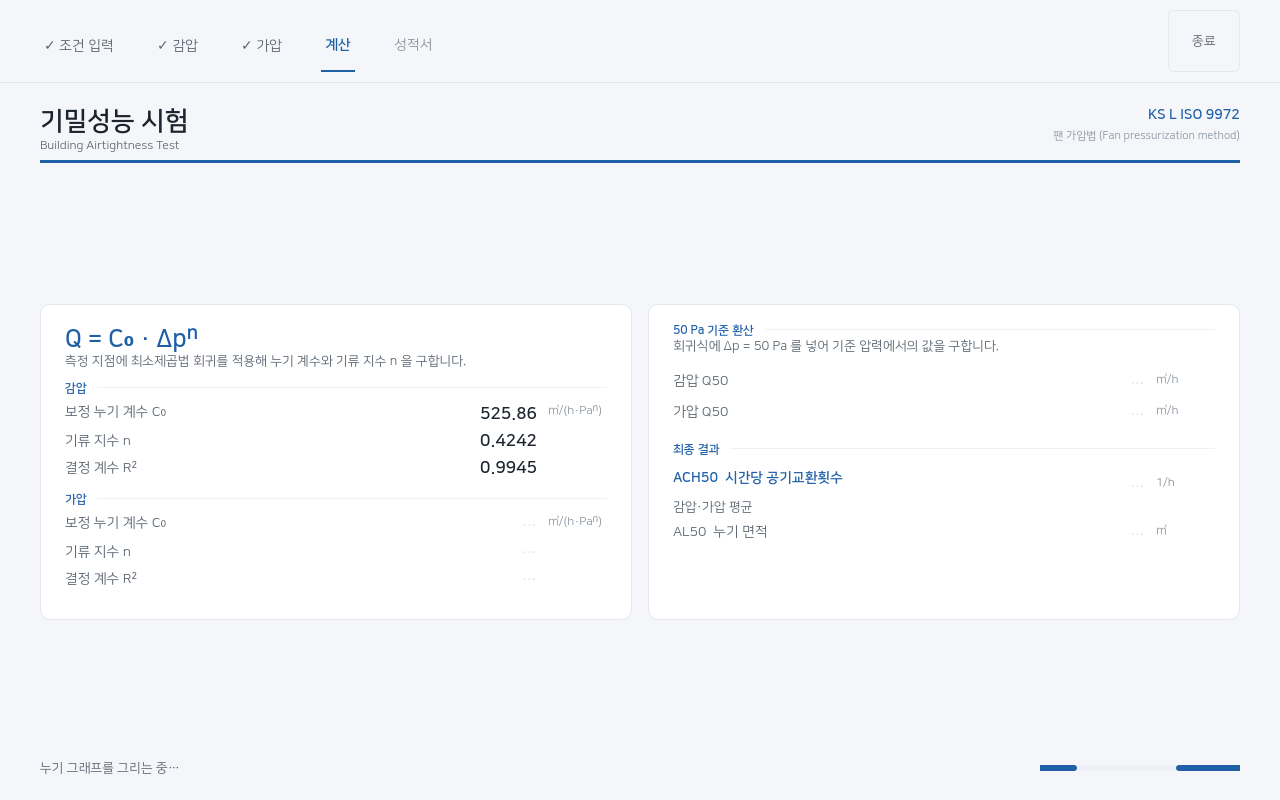
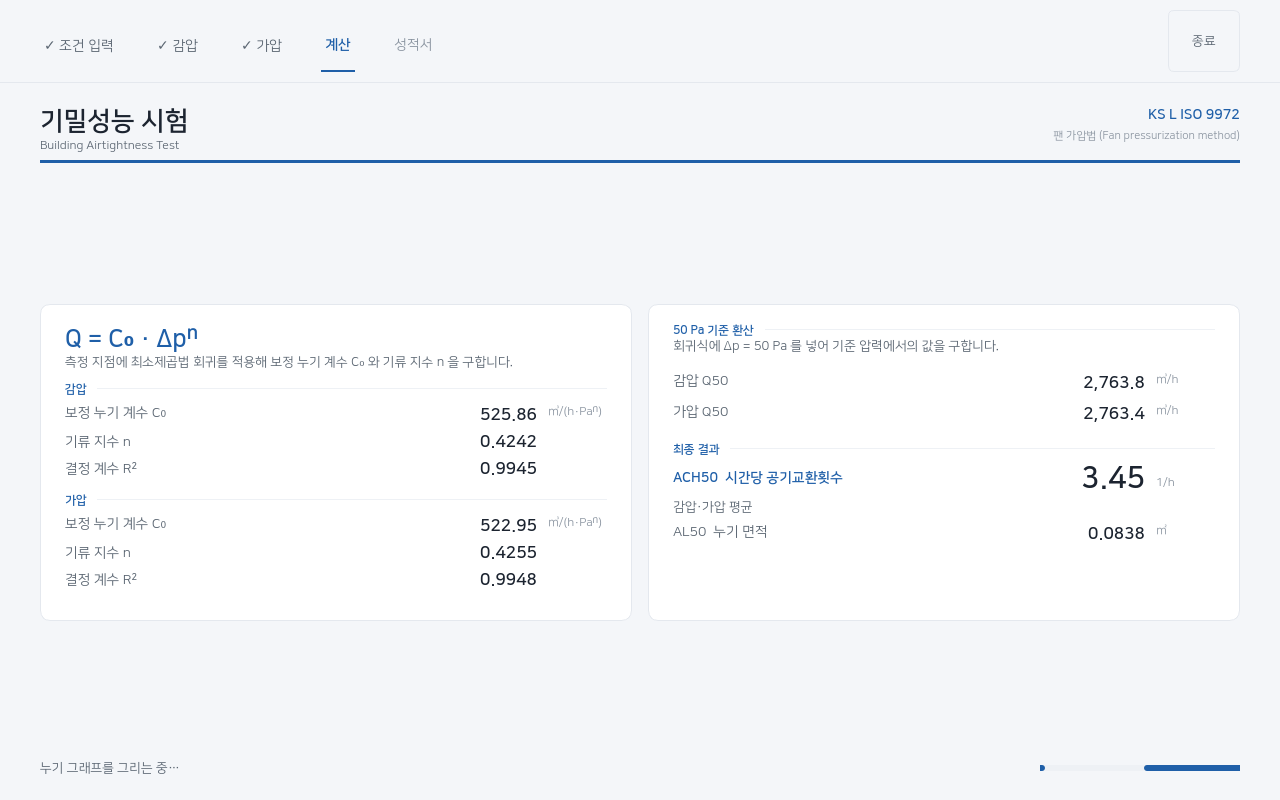
최종 점검 묶음 — 폴링 최적화·스모크 확장·문서 동기화·AP 기본값
성적서 화면 폴링 최적화: _refresh_qr 이 2초마다 nmcli 를 3~4회(GUI 스레드)
돌려 NM 이 느린 순간 화면이 버벅일 수 있었다. 정상 상태에선 AP 유무 확인
(ap_ip) 1회만 부르고, 자격증명은 QR 을 새로 그릴 때만, SSID 조회는 주소가
바뀔 때만 읽는다 (wifi_qr_payload 에 cred 재사용 인자 추가).

스모크 확장(26→31검사): 한글 오토마타 조합 8케이스·겹받침 백스페이스,
팬 수량 체크박스 개수, numeric property 판별, 팬 감시 정확 매칭
(fan_guard 에 is_app_cmdline 헬퍼 분리 — 동작 불변).

문서 동기화: CLAUDE.md 에 온스크린 키보드 기재, 안전장치 3층을 autostart
루프 기준으로 정정, 웹공유 절의 wlan1 서술이 개발 구성임을 명시(납품 절과의
모순 해소). MANUAL.md 'USB 로 복사'·'표본 수'·감지 알림 반영.
04-summary.png 재생성(intro 문구 최신화).

setup-hotspot.sh 기본 SSID·비번을 실기기·문서와 일치(BlowerDoor-Test/
blowerdoor123)로 — 납품 때 인자 없이 재실행해도 안내와 어긋나지 않게.

Claude-Session: https://claude.ai/code/session_01MsHdfJVN6r14YMWuHNiSUb

diff --git a/bdt/pages/report_view.py b/bdt/pages/report_view.py
@@ -257,49 +257,62 @@ class ReportPage(QWidget):
         sub_label.setText(sub_text)
 
     def _refresh_qr(self):
-        """AP·네트워크 상태에 맞춰 공유 QR 을 갱신한다."""
+        """AP·네트워크 상태에 맞춰 공유 QR 을 갱신한다.
+
+        2초마다 GUI 스레드에서 돌므로 nmcli 서브프로세스를 아껴야 한다 —
+        NetworkManager 가 느린 순간엔 호출당 수 초씩 막혀 화면이 버벅인다.
+        정상 상태(변화 없음)에선 AP 유무 확인(ap_ip) 한 번만 부르고,
+        자격증명·SSID 조회는 QR 을 실제로 새로 그릴 때만 한다.
+        """
         from bdt import web
-        url = web.base_url()
-        if not url:                       # 네트워크·AP 둘 다 없음
+        # AP(bdt-share)가 '실제로 떠 있는지'는 IP 유무로 본다. 연결 설정만 있고
+        # 안 떠 있으면 접속 QR 을 보여줘선 안 된다 — 없는 망에 붙으라고
+        # 안내하는 꼴이 된다.
+        ap = web.ap_ip()                    # 폴링당 유일한 상시 nmcli 호출
+        ip = ap or web.lan_ip()             # lan_ip 은 소켓 조회라 싸다
+        if not ip:                          # 네트워크·AP 둘 다 없음
             self.qr_panel.setVisible(False)
             self._wifi_shown = self._url_shown = None
             return
+        ap_up = ap is not None
+        url = f"http://{ip}:{web.PORT}/"
 
-        # AP(bdt-share)가 '실제로 떠 있는지'는 IP 유무로 본다. 연결 설정만 있고
-        # 안 떠 있으면(ap_ip None) 접속 QR 을 보여줘선 안 된다 — 없는 망에
-        # 붙으라고 안내하는 꼴이 된다.
-        ap_up = web.ap_ip() is not None
-
-        # ① WiFi 접속 QR — AP 가 실제로 떠 있을 때만
-        wifi = web.wifi_qr_payload() if ap_up else None
-        cred = web.ap_credentials() if wifi else None
-        if wifi and cred:
-            self._wifi_block.setVisible(True)
-            if wifi != self._wifi_shown:
-                # 스캔하면 WiFi 자동 연결(비번 QR 에 박힘) → 목록 자동 열림.
-                # 아래 SSID·비번은 QR 이 안 될 때 손으로 연결하는 예비 정보.
-                self._set_qr(self.wifi_qr, self.wifi_sub, wifi,
-                             f"WiFi 연결 후 목록 자동 열림\n"
-                             f"(수동: {cred[0]} / {cred[1]})")
-                self._wifi_shown = wifi
+        # ① WiFi 접속 QR — AP 가 실제로 떠 있을 때만. 자격증명(nmcli)은 QR 이
+        # 아직 안 그려졌을 때만 읽는다 (SSID·비번은 세션 중 바뀌지 않는다 —
+        # 바꾸는 경로는 setup-hotspot.sh 뿐이고 그때 AP 가 재시작돼 여기로
+        # 다시 온다).
+        if ap_up:
+            if self._wifi_shown is None:
+                cred = web.ap_credentials()
+                wifi = web.wifi_qr_payload(cred)
+                if wifi and cred:
+                    # 스캔하면 WiFi 자동 연결(비번 QR 에 박힘) → 목록 자동 열림.
+                    # 아래 SSID·비번은 QR 이 안 될 때 손으로 연결하는 예비 정보.
+                    self._set_qr(self.wifi_qr, self.wifi_sub, wifi,
+                                 f"WiFi 연결 후 목록 자동 열림\n"
+                                 f"(수동: {cred[0]} / {cred[1]})")
+                    self._wifi_shown = wifi
+            self._wifi_block.setVisible(self._wifi_shown is not None)
         else:
             self._wifi_block.setVisible(False)
             self._wifi_shown = None
 
-        # ② 다운로드 주소 QR — 캡션은 상황에 따라 다르다.
-        #   AP 있음: 폰이 AP 에 붙은 뒤 ① 자동 열림이 안 될 때의 폴백.
-        #   AP 없음: 폰이 '이미 같은 WiFi 에 있어야' 열린다 — 그렇지 않으면
-        #            스캔해도 접속이 안 되므로 전제 조건을 분명히 알린다.
-        if ap_up:
-            self.url_cap.setText("② 1번으로 목록이 안 열릴 때만")
-        else:
-            # 폰이 어느 망에 붙어야 하는지 실제 SSID 로 알린다
-            ssid = web.lan_ssid()
-            if ssid:
-                self.url_cap.setText(f"'{ssid}' WiFi 의 폰에서만")
-            else:
-                self.url_cap.setText("같은 WiFi 에 연결된 폰에서만")
+        # ② 다운로드 주소 QR — 주소가 바뀔 때만(첫 표시·망 전환) 다시 그린다.
+        # 캡션도 이때만 정한다: ap_up 이 바뀌면 IP(10.42.0.1 ↔ LAN)가 바뀌어
+        # 반드시 여기로 들어오므로 폴링마다 SSID(nmcli)를 조회할 필요가 없다.
         if url != self._url_shown:
+            #   AP 있음: 폰이 AP 에 붙은 뒤 ① 자동 열림이 안 될 때의 폴백.
+            #   AP 없음: 폰이 '이미 같은 WiFi 에 있어야' 열린다 — 그렇지 않으면
+            #            스캔해도 접속이 안 되므로 전제 조건을 분명히 알린다.
+            if ap_up:
+                self.url_cap.setText("② 1번으로 목록이 안 열릴 때만")
+            else:
+                # 폰이 어느 망에 붙어야 하는지 실제 SSID 로 알린다
+                ssid = web.lan_ssid()
+                if ssid:
+                    self.url_cap.setText(f"'{ssid}' WiFi 의 폰에서만")
+                else:
+                    self.url_cap.setText("같은 WiFi 에 연결된 폰에서만")
             self._set_qr(self.url_qr, self.url_sub, url,
                          url.replace("http://", "").rstrip("/"))
             self._url_shown = url

diff --git a/tests/smoke.py b/tests/smoke.py
@@ -376,6 +376,63 @@ def main():
               ", ".join(f"{n}={h}" for n, h in tall.items()) or
               f"최대 {max(p.minimumSizeHint().height() for p in pages.values())}")
 
+        # ── 4-3. 세션 신규 로직 (키보드·팬 수량·팬 감시) ─────────
+        print("4-3. 키보드·입력·감시 로직")
+        from bdt.keyboard import HangulAutomaton
+
+        def type_jamo(seq):
+            """자모열 → 완성 문자열 (키보드 _feed_hangul 과 같은 규칙)."""
+            auto = HangulAutomaton()
+            out = []
+            for j in seq:
+                action, arg = auto.add(j)
+                if action == "update":
+                    out[-1:] = [arg]
+                elif action == "new":
+                    out.append(arg)
+                elif action == "split":
+                    out[-1:] = list(arg)
+                else:
+                    out.append(j)
+            return "".join(out)
+
+        hangul_cases = [
+            ("ㄱㅏ", "가"), ("ㄱㅏㄴ", "간"), ("ㄱㅏㅂㅅ", "값"),
+            ("ㄱㅗㅏ", "과"), ("ㅎㅏㄴㄱㅡㄹ", "한글"),
+            ("ㄱㅏㄴㅏ", "가나"),           # 종성 이월 (split)
+            ("ㅇㅏㄴㄴㅕㅇ", "안녕"),
+            ("ㅎㅗㅇㄱㅣㄹㄷㅗㅇ", "홍길동"),
+        ]
+        bad = [(s, type_jamo(s), want) for s, want in hangul_cases
+               if type_jamo(s) != want]
+        check("한글 오토마타 조합", not bad,
+              ", ".join(f"{s}→{got}≠{want}" for s, got, want in bad)
+              or f"{len(hangul_cases)}케이스")
+
+        auto = HangulAutomaton()
+        for j in "ㄱㅏㅂㅅ":
+            auto.add(j)
+        action, arg = auto.backspace()      # 값 → 갑 (겹받침 분해)
+        check("한글 백스페이스 겹받침 분해",
+              action == "update" and arg == "갑", f"{action}/{arg}")
+
+        page_in = InputInitialValues()
+        check("팬 수량 체크박스 = 개수",
+              sum(cb.isChecked() for cb in page_in.fan_checks) == 0
+              and [cb.setChecked(True) for cb in page_in.fan_checks] is not None
+              and sum(cb.isChecked() for cb in page_in.fan_checks) == 2)
+        check("숫자 칸 numeric property",
+              bool(page_in.input_fields["interior volume"].property("numeric"))
+              and bool(page_in.input_fields["floor area"].property("numeric"))
+              and not page_in.input_fields["purpose"].property("numeric"))
+
+        from bdt.fan_guard import is_app_cmdline
+        check("팬 감시 앱 판정 — 정확 매칭",
+              is_app_cmdline(["python3", "-m", "bdt"])
+              and not is_app_cmdline(["python3", "-m", "bdt.fan_stop"])
+              and not is_app_cmdline(["python3", "-m", "bdt.fan_guard"])
+              and not is_app_cmdline(["python3", "app.py"]))
+
         # ── 5. 종료 시 워커 정리 ────────────────────────────────
         print("5. 창 닫기 정리")
         control.get_duty = slow_get_duty

diff --git a/bdt/fan_guard.py b/bdt/fan_guard.py
@@ -27,14 +27,22 @@ from bdt.config import TEST_MODE
 CHECK_INTERVAL = 1.0
 
 
-def app_running():
-    """기밀성능 시험 앱(`python3 -m bdt`)이 실행 중이면 True.
+def is_app_cmdline(args):
+    """명령줄 인자가 기밀성능 시험 앱(`python3 -m bdt`)인지 판정한다.
 
-    /proc 의 각 프로세스 명령줄에서 `-m` 바로 다음 인자가 **정확히 "bdt"** 인지
-    본다. 이 감시 장치(`-m bdt.fan_guard`)나 부팅 정지(`-m bdt.fan_stop`)는
-    다음 인자가 "bdt.fan_guard"·"bdt.fan_stop" 이라 걸리지 않는다 — 부분
-    일치(pgrep -f "bdt")로는 자기 자신을 앱으로 오인해 영영 duty 0 을 안 건다.
+    `-m` 바로 다음 인자가 **정확히 "bdt"** 여야 한다. 이 감시 장치
+    (`-m bdt.fan_guard`)나 부팅 정지(`-m bdt.fan_stop`)는 다음 인자가
+    "bdt.fan_guard"·"bdt.fan_stop" 이라 걸리지 않는다 — 부분 일치
+    (pgrep -f "bdt")로는 자기 자신을 앱으로 오인해 영영 duty 0 을 안 건다.
     """
+    for i in range(len(args) - 1):
+        if args[i] == "-m" and args[i + 1] == "bdt":
+            return True
+    return False
+
+
+def app_running():
+    """기밀성능 시험 앱(`python3 -m bdt`)이 실행 중이면 True."""
     my_pid = str(os.getpid())
     for entry in os.listdir("/proc"):
         if not entry.isdigit() or entry == my_pid:
@@ -46,9 +54,8 @@ def app_running():
         except OSError:
             # 프로세스가 그 사이 사라졌거나 접근 불가 — 넘어간다
             continue
-        for i in range(len(args) - 1):
-            if args[i] == "-m" and args[i + 1] == "bdt":
-                return True
+        if is_app_cmdline(args):
+            return True
     return False
 
 

diff --git a/bdt/web.py b/bdt/web.py
@@ -104,13 +104,14 @@ def ap_credentials():
     return None
 
 
-def wifi_qr_payload():
+def wifi_qr_payload(cred=None):
     """폰이 스캔하면 AP 에 바로 접속되는 WiFi QR 문자열. 설정 없으면 None.
 
     형식 'WIFI:T:WPA;S:<ssid>;P:<pw>;;' — iOS·안드로이드 카메라가 인식한다.
     값 안의 특수문자(\\ ; , : ")는 백슬래시로 escape 한다 (WIFI QR 규격).
+    cred 를 주면 nmcli 를 다시 부르지 않는다 (호출부가 이미 읽어둔 경우).
     """
-    cred = ap_credentials()
+    cred = cred or ap_credentials()
     if not cred:
         return None
     def esc(v):

diff --git a/CLAUDE.md b/CLAUDE.md
@@ -28,6 +28,14 @@
   `calculation.py` 가 직접 읽으므로 파일을 옮기지 않는다 (기존 데이터·스크립트 호환).
 - `bdt/tasks.py` — QThread 작업. finished 는 성공/실패 무관하게 항상 오므로
   절대 finished 만으로 다음 단계로 넘어가지 말 것 (error/cancelled 로 판단).
+- `bdt/keyboard.py` — 온스크린 키보드. **Qt 가상 키보드(qtvirtualkeyboard)는
+  QtWidgets 앱에 자동 팝업이 안 떠서** 앱이 직접 그린다. 한글은 두벌식
+  오토마타(HangulAutomaton)로 초·중·종성을 조합(겹모음·겹받침·종성 이월 포함).
+  QLineEdit 포커스 시 MainWindow(flow.py)가 focusChanged 로 띄우고, 입력창의
+  `property("numeric")` 이 참이면 한 줄 숫자 키패드, 아니면 한글/영문/기호
+  키보드(+오른쪽 텐키). 키는 NoFocus 라 입력창 포커스를 안 뺏는다. 하단
+  버튼줄이 키보드에 눌리지 않게 페이지 동작 버튼(저장 등)은 PageHeader 의
+  actions 로 헤더 오른쪽에 둔다.
 - `bdt/flow.py` — 단일창 + QStackedWidget 페이지 전환. show_page 가 이전 페이지를
   deleteLater 한다 (파괴된 위젯으로 가던 시그널은 Qt 가 자동 해제).
 - 시험 흐름: 조건 입력 → 준비(영기류 확인) → 목표 압력 조절(TargetingPage)
@@ -49,7 +57,8 @@
   -3174 Pa 같은 유령값의 원인이었다.
 - 팬 전원은 수동 공급. duty 0 은 항상 안전, **duty>0 은 실제 팬이 돌므로 주의**.
 - 안전장치 4중: config.txt 펌웨어 LOW → bdt-fan-stop.service(부팅) →
-  .desktop 의 후행 `python3 -m bdt.fan_stop`(앱 크래시 대비) →
+  앱 종료 후행 `python3 -m bdt.fan_stop`(autostart 재시작 루프의 매 반복 +
+  수동 실행용 .desktop, 앱 크래시 대비) →
   **bdt-fan-guard.service(상시 감시)**. 앞 셋은 특정 시점에 한 번씩만 duty 0 을
   거는데, 앱이 측정 중 SIGKILL 로 죽거나 래퍼 없이 직접 실행한 앱이 비정상
   종료하면 팬이 도는 채 남을 수 있다. 감시는 1초마다 `bdt.fan_guard.app_running`
@@ -83,11 +92,13 @@
 - **성적서 공유는 USB 복사 + 자체 핫스팟(AP) 웹**(둘 다 성적서 화면에서).
   USB 복사 버튼은 `/media/<user>/` 에 마운트된 USB 가 있을 때만 뜬다
   (`paths.usb_mounts`, 2초 폴링).
-  - **웹 공유 구조 = 단말이 AP**: 전용 USB WiFi(**wlan1**, Realtek rtl8192cu)로
-    상시 AP `BlowerDoor-Test`(10.42.0.1)를 방송하고, 폰이 거기 붙어 받는다.
-    내장 wlan0 은 인터넷용으로 따로 둔다(동시 구동 — AP 켜도 인터넷 안 끊김).
-    **AP 는 반드시 wlan1 에 고정**(nmcli `connection.interface-name wlan1`)해야
-    한다 — 안 그러면 NM 이 wlan0 에 AP 를 올려 인터넷·원격이 끊긴다.
+  - **웹 공유 구조 = 단말이 AP**: 상시 AP `BlowerDoor-Test`(10.42.0.1)를
+    방송하고, 폰이 거기 붙어 받는다. AP 를 올리는 인터페이스는 구성에 따라
+    다르다(아래 '납품 vs 개발' 참조 — **개발 = wlan1, 납품 = wlan0**).
+    현재(개발) 구성: 전용 USB WiFi(**wlan1**, Realtek rtl8192cu)가 AP, 내장
+    wlan0 은 인터넷용(동시 구동 — AP 켜도 인터넷 안 끊김). 개발 중 **AP 는
+    반드시 wlan1 에 고정**(nmcli `connection.interface-name wlan1`)해야 한다 —
+    안 그러면 NM 이 wlan0 에 AP 를 올려 인터넷·원격이 끊긴다.
   - `bdt.web`(Flask, bdt-web.service, 포트 8080)이 바탕화면 `결과보고서` 를
     서빙. 성적서 화면 오른쪽에 **2단계 QR**: ① WiFi 접속 QR(`web.wifi_qr_payload`,
     SSID·비번을 NM 에서 읽음) → ② 다운로드 주소 QR(`web.base_url` 이 **AP IP

diff --git a/MANUAL.md b/MANUAL.md
@@ -82,9 +82,10 @@
 성적서가 화면 가운데에 뜬다. **[100% 로 보기]** 로 확대해 표의 작은 숫자를
 확인할 수 있다. 하단에 **저장 위치**가 표시된다.
 
-### USB로 복사
-USB 저장소를 꽂으면 **[USB로 복사]** 버튼이 나타난다. 누르면 성적서가
-뜻있는 파일명으로 USB에 복사되고, 안전하게 뽑아도 된다는 안내가 뜬다.
+### USB 로 복사
+USB 저장소를 꽂으면 "USB 연결 감지됨" 알림이 잠깐 뜨고 **[USB 로 복사]**
+버튼이 나타난다. 누르면 성적서가 뜻있는 파일명으로 USB에 복사되고, 안전하게
+뽑아도 된다는 안내가 뜬다.
 
 ### 폰으로 받기 (QR)
 
@@ -116,7 +117,7 @@ USB 저장소를 꽂으면 **[USB로 복사]** 버튼이 나타난다. 누르면
 | 수렴 허용 오차 | 10 % | 1~50 | 수렴 판정 폭 (70 Pa의 10% → ±7 Pa) |
 | 수렴 유지 시간 | 10 초 | 1~120 | 허용 오차 안에 머물 연속 시간 |
 | 시험 가능 상한 | 100 Pa | 10~500 | 넘으면 시험 불가로 판정 |
-| 압력 평활 창 | 10 점 | 1~60 | 조절 압력·수렴 판정 이동평균 점수 |
+| 압력 평활 창 | 10 점 | 1~60 | 조절 압력·수렴 판정 이동평균 표본 수 |
 | 지점 측정 시간 | 10 초 | 1~120 | 측정 지점당 압력 평균 시간 |
 | 안정화 대기 | 2 초/duty | 0~30 | 팬 세기 1당 압력 안정화 대기 |
 | 측정 지점 수 | 10 개 | 5~30 | 시작 압력에서 최저 지점까지 등분 수 |